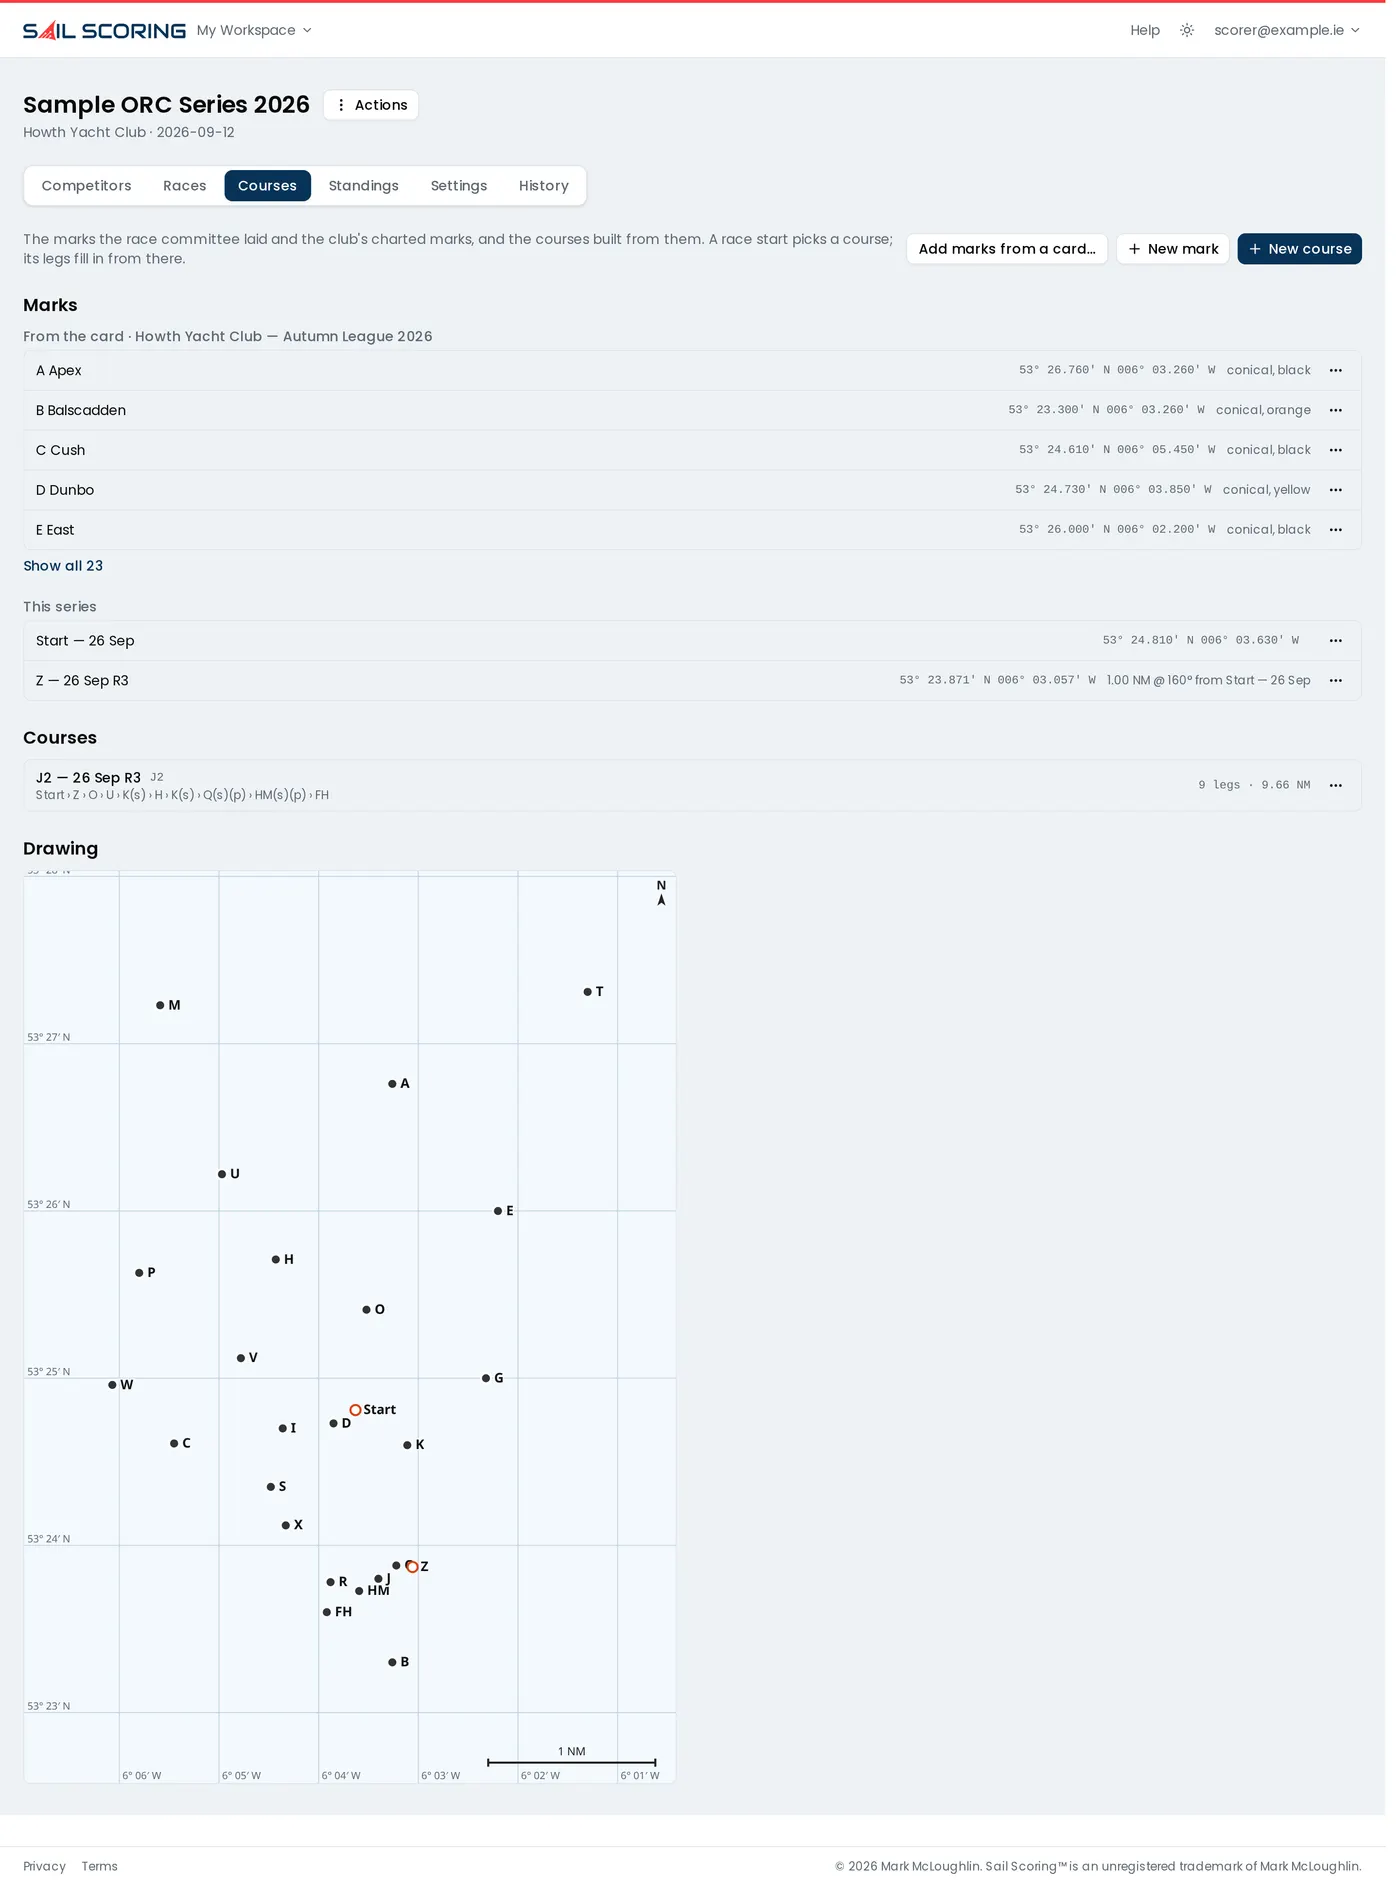
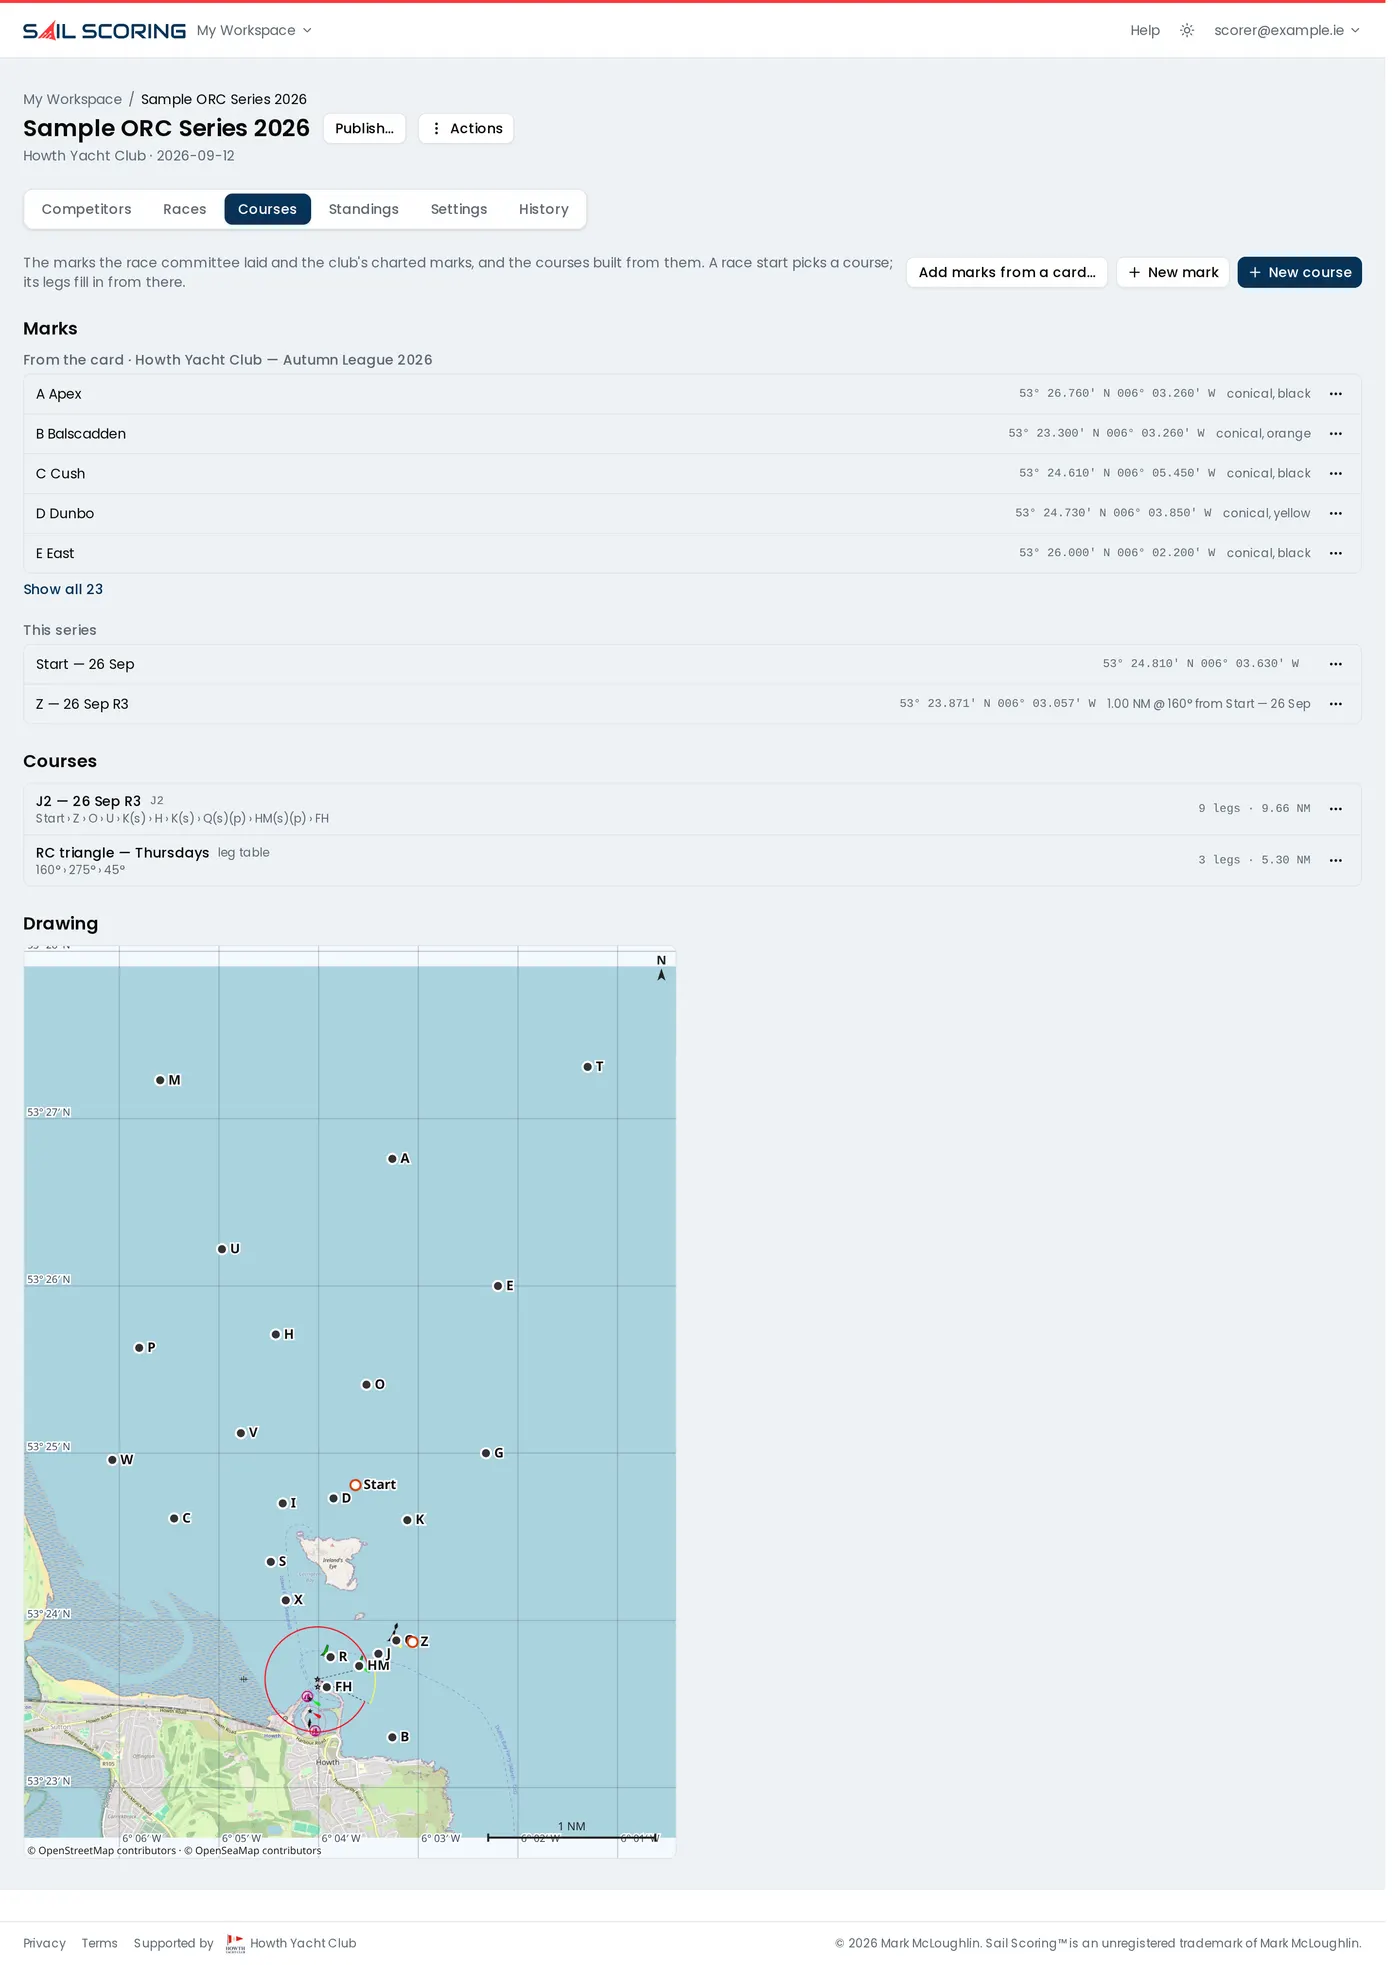
Say in the help that the drawing is on the club's chart
A new section in the Courses chapter, the feature inventory row, the
re-captured shot the section embeds, and the design doc's "Rendering the
course", which named this as the refinement to come and can now say it came.

Issue #598

diff --git a/app/help/content/rating-systems.tsx b/app/help/content/rating-systems.tsx
@@ -430,6 +430,20 @@ export default function RatingSystems() {
           shows before you save.
         </p>
         <p>
+          <strong className="text-foreground">The drawing is on the club’s
+          own chart.</strong> Each data set ships a chart of its water,
+          captured once from OpenStreetMap and OpenSeaMap — the shore, the
+          soundings and the navigation marks the crew sees — and a course over
+          that club’s marks is drawn on it: in the Courses tab, in every
+          dialog, and on the published page. A mark laid beyond what the
+          capture covers is drawn on plain ground beside it, and a series whose
+          marks were all entered by hand has no club chart to draw on, so it
+          keeps the plain grid. The chart travels inside the published page
+          rather than being fetched from a tile server, which is both what the
+          tile policy requires and what keeps a results page working with
+          nothing to load.
+        </p>
+        <p>
           A race start then <strong className="text-foreground">picks a course</strong>{' '}
           from the list — most recently used first — and its legs fill in at the one
           wind direction you give the start, pre-filled where the card lays the

diff --git a/docs/design/feature-inventory.md b/docs/design/feature-inventory.md
@@ -115,7 +115,7 @@ Every mainstream system a club or class is likely to score under.
 | Fixed club handicap (`#fixed-tcf`, `#updating-handicaps`) | core | A handicap the club sets itself and holds for the whole series, applied time-on-time exactly as a TCC is — the shape of a club league whose numbers are set in advance from recent form rather than recalculated race by race. The fleet carries the club's own name for the number ("HPH"), which heads the rating column wherever it is shown and published, and the numbers can be seeded straight from the end-of-series handicaps of the progressive series they came from. A boat re-rated mid-series keeps its earlier races on the rating they were sailed under. | The Fleets card of a club league: a fleet scored on Fixed TCF with HPH typed in the label box beside the system picker. |
 | VPRS (`#rating-systems`, `#update-handicaps-vprs`) | opt-in | Static time-on-time scoring on VPRS TCCs, pulled from the club's published list with spinnaker/no-spinnaker choice per fleet. | Update handicaps dialog, VPRS source: club picker and current → new rows. |
 | ORC (`#scoring-orc`, `#update-handicaps-orc`) | opt-in | Whole ORC certificates imported from the ORC database (per country and family — a boat with no certificate in its fleet's family is rated off its standard one, marked as such — with expiry and VPP-year checks and CDL/GPH class-division columns), scored on any published single number — all-purpose ToT behaves exactly like IRC — or time-on-distance over a recorded course length, or performance curves (PCS) over the standard models or a constructed course entered leg by leg, or that same constructed course scored at the wind the race committee recorded on each leg instead of at one derived from the finish times — the rating computed from the course geometry and the observed wind, applied time-on-time or time-on-distance (ORC Scorer's "ToT / ToD - Constructed"), with no implied wind claimed because nothing is inferred from how the boats sailed. A race whose course has not been entered yet is left unscored rather than ranked on crossing order — a dash in the standings, out of every total and discard — and publishing holds the pages carrying that fleet, naming the race, until the course is in or the scorer publishes without it. Neither Sailwave nor HalSail scores PCS or constructed courses. The scoring options are named the way the certificate names them — "5-Band All Purpose L/M", not `IRL_AP_LM_TOT` — and grouped by the issuing office, from the certificates' own catalog; since a certificate carries every country's national fields, only the options that catalog names are offered, rather than the several hundred belonging to offices on other continents. | Published PCS race table from the seeded ORC sample: the audit header (constructed course, scoring wind and its source, scratch allowance), the ToD and Implied wind columns, and the leg-by-leg course record. Also `orc-recorded-wind`: the sample's same course scored at the recorded wind, framed under the performance-curve race so the two read against each other. |
-| Course builder (`#course-builder`) | opt-in (with ORC) | A Courses tab on an ORC series: a mark library (the club's charted marks adopted from its course card at `courses.sailscoring.ie`, and the line, finish and windward marks the race committee laid, entered as coordinates or as a bearing and distance off another mark) and a course library (a number on the card, with the dialog naming exactly the marks the card cannot place, built by hand from the marks, or — where the committee boat handed over legs and no positions — the leg table itself, typed or pasted straight from the committee's own table, which is drawn from its bearings and distances alone and reports how nearly it closes). A race start picks a course and its legs fill in at the start's wind; edits to the legs are kept and flagged, and the start keeps a snapshot drawn on the published page. Every dialog draws the marks and legs as they are typed. | The Courses tab of the seeded ORC sample: the marks from the card and the laid ones, the course built from card J2, and the drawing. |
+| Course builder (`#course-builder`) | opt-in (with ORC) | A Courses tab on an ORC series: a mark library (the club's charted marks adopted from its course card at `courses.sailscoring.ie`, and the line, finish and windward marks the race committee laid, entered as coordinates or as a bearing and distance off another mark) and a course library (a number on the card, with the dialog naming exactly the marks the card cannot place, built by hand from the marks, or — where the committee boat handed over legs and no positions — the leg table itself, typed or pasted straight from the committee's own table, which is drawn from its bearings and distances alone and reports how nearly it closes). A race start picks a course and its legs fill in at the start's wind; edits to the legs are kept and flagged, and the start keeps a snapshot drawn on the published page. Every dialog draws the marks and legs as they are typed, on the club's own water: each data set ships a chart captured from OpenStreetMap and OpenSeaMap, and a course over its marks is drawn on it, in the builder and on the published page alike — embedded in the page, attributed, and never fetched from a tile server. | The Courses tab of the seeded ORC sample: the marks from the card and the laid ones, the course built from card J2, and the drawing. |
 | ORC handicap mix (`#scoring-orc`) | opt-in (with ORC) | Beside the course on a published performance-curve race, folded away: the certificate's own allowance table, laid out as it is printed, with the share of the rating each cell actually carried in place of the allowance — half beat VMG and half run VMG for a windward/leeward model, the angles the legs were sailed at for a constructed course, every row for an all-purpose one, and a wind axis showing that PCS reads one scoring wind where a single-number rating averages over a fixed spread. Says whether the weights reproduce the applied allowance or only attribute it. Nothing comparable is published by any other scoring tool. | The handicap-mix grid open under the constructed-course race of the seeded ORC sample. |
 | Refreshing a rating source (`#update-handicaps-irc-rating`, `#update-handicaps-orc`, `#update-handicaps-vprs`, `#update-handicaps-irish-sailing`) | core | Every external rating feed is fetched once and reused for six hours, with the listing's date named in the preview; a **Refresh from source** link beside that date fetches it again and re-plans against what comes back, for the scorer who knows a boat was re-rated this morning. Scoped to what was refreshed — one ORC country and family, one VPRS club — so a listing nobody asked about is not discarded. Workspace administrators only, since it reaches the rating office's own server, and limited to once a minute per source. | Covered by the existing Update handicaps shots: the link sits beside the "as of" date under the preview. |
 | Carrying handicaps between series (`#updating-handicaps`) | core | Carry every boat's handicap forward from a prior series — end-of-series TCFs for progressive systems, and those same TCFs pinned as the fixed numbers of a club league — with a full current → new preview and a mid-series-vs-correction choice for already-scored races. | Update handicaps dialog, prior-series source, with the keep-already-scored-races-on-the-old-rating checkbox visible. |

diff --git a/docs/design/orc/course-builder.md b/docs/design/orc/course-builder.md
@@ -237,12 +237,16 @@ it in the builder, the results renderer embeds the same string in the published
 page. No client-side map library, no runtime tile fetching, no dependency on an
 external origin from a published page.
 
-No chart background in the first cut — marks, legs, leg labels, a north arrow
-and a scale bar on a plain ground. Hot-linking OSM tiles from published pages
-is against their tile policy, and per-race tile capture is a project of its
-own. A later refinement is nearly free: each data set already ships a captured
-`map/background.png` with bounds, so a course inside its set's bounds can be
-drawn on the club's own chart with the set's attribution.
+The first cut had no chart background — marks, legs, leg labels, a north arrow
+and a scale bar on plain ground — because hot-linking OSM tiles from published
+pages is against their tile policy and per-race tile capture is a project of
+its own. The refinement it named has since landed (#598): every data set ships
+a `map/background.png` captured once, with the bounds it covers, and
+`renderCourseSvg` takes it as a background, embedding the image in the drawing
+and printing the set's attribution. One renderer still, so the builder's
+dialogs and the published page show the same water; a course that runs past
+what the club captured is drawn on plain ground beyond it. Nothing is fetched
+at runtime, from a published page or from the app.
 
 ## Getting cards into a workspace
 
